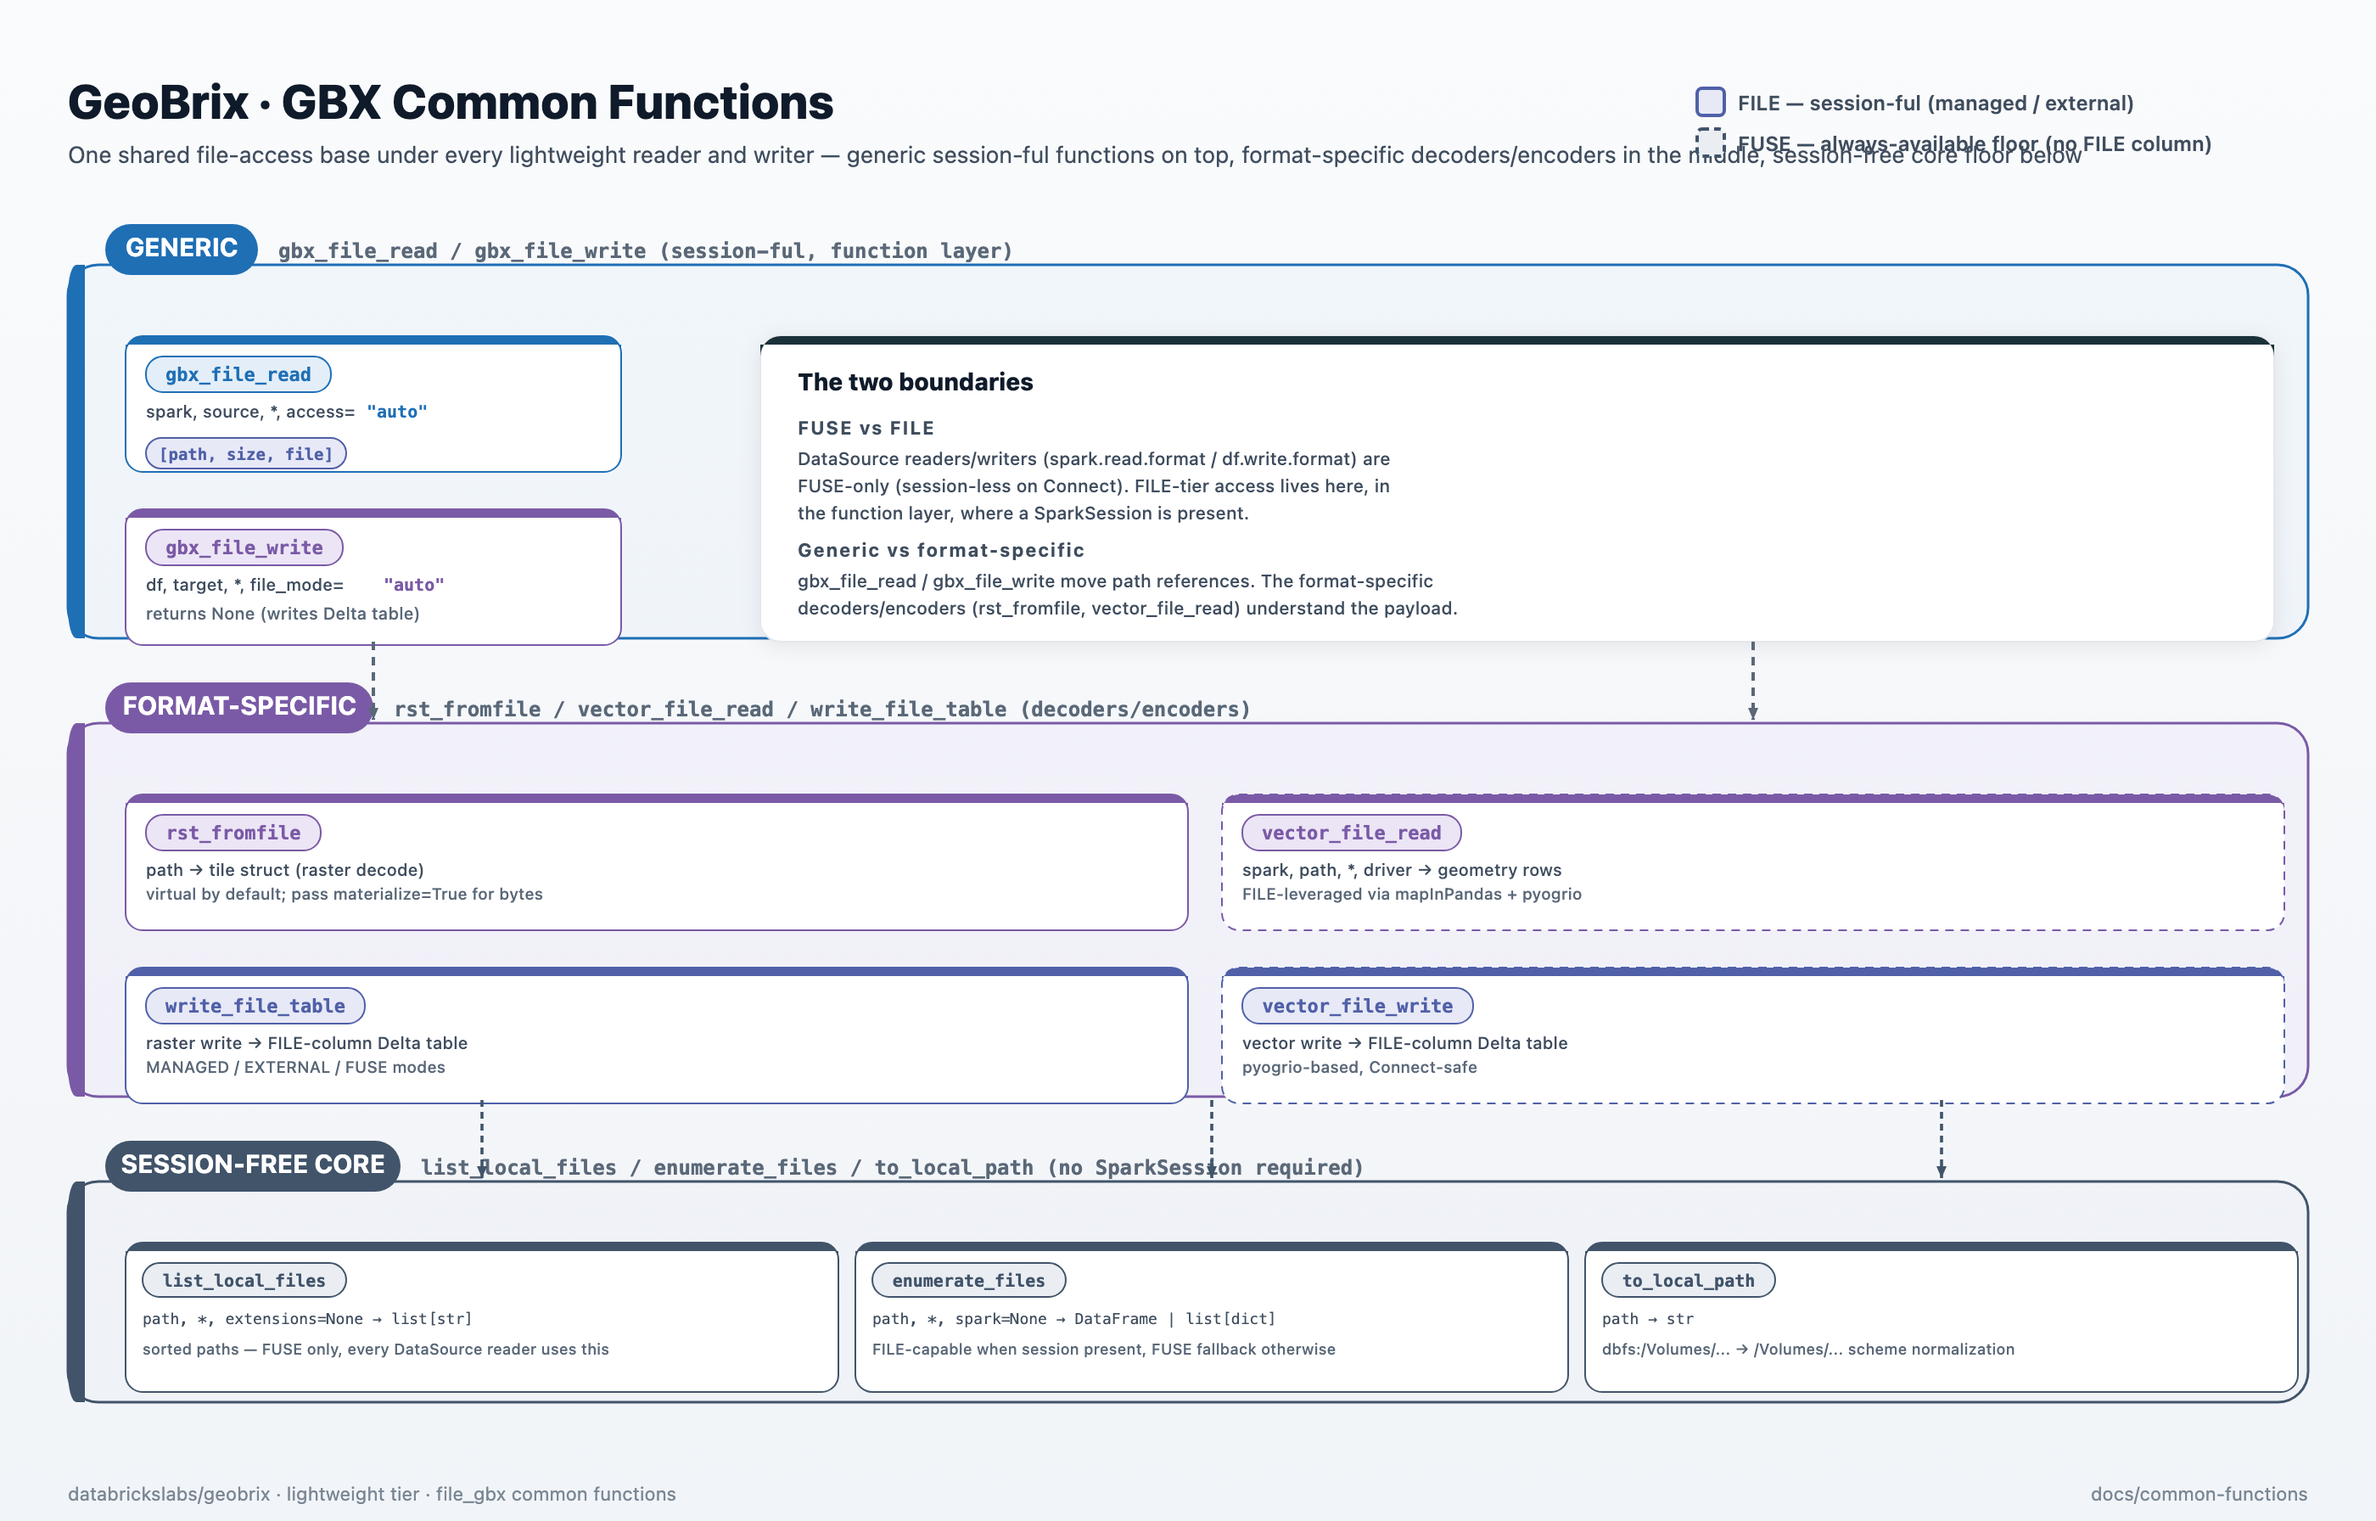
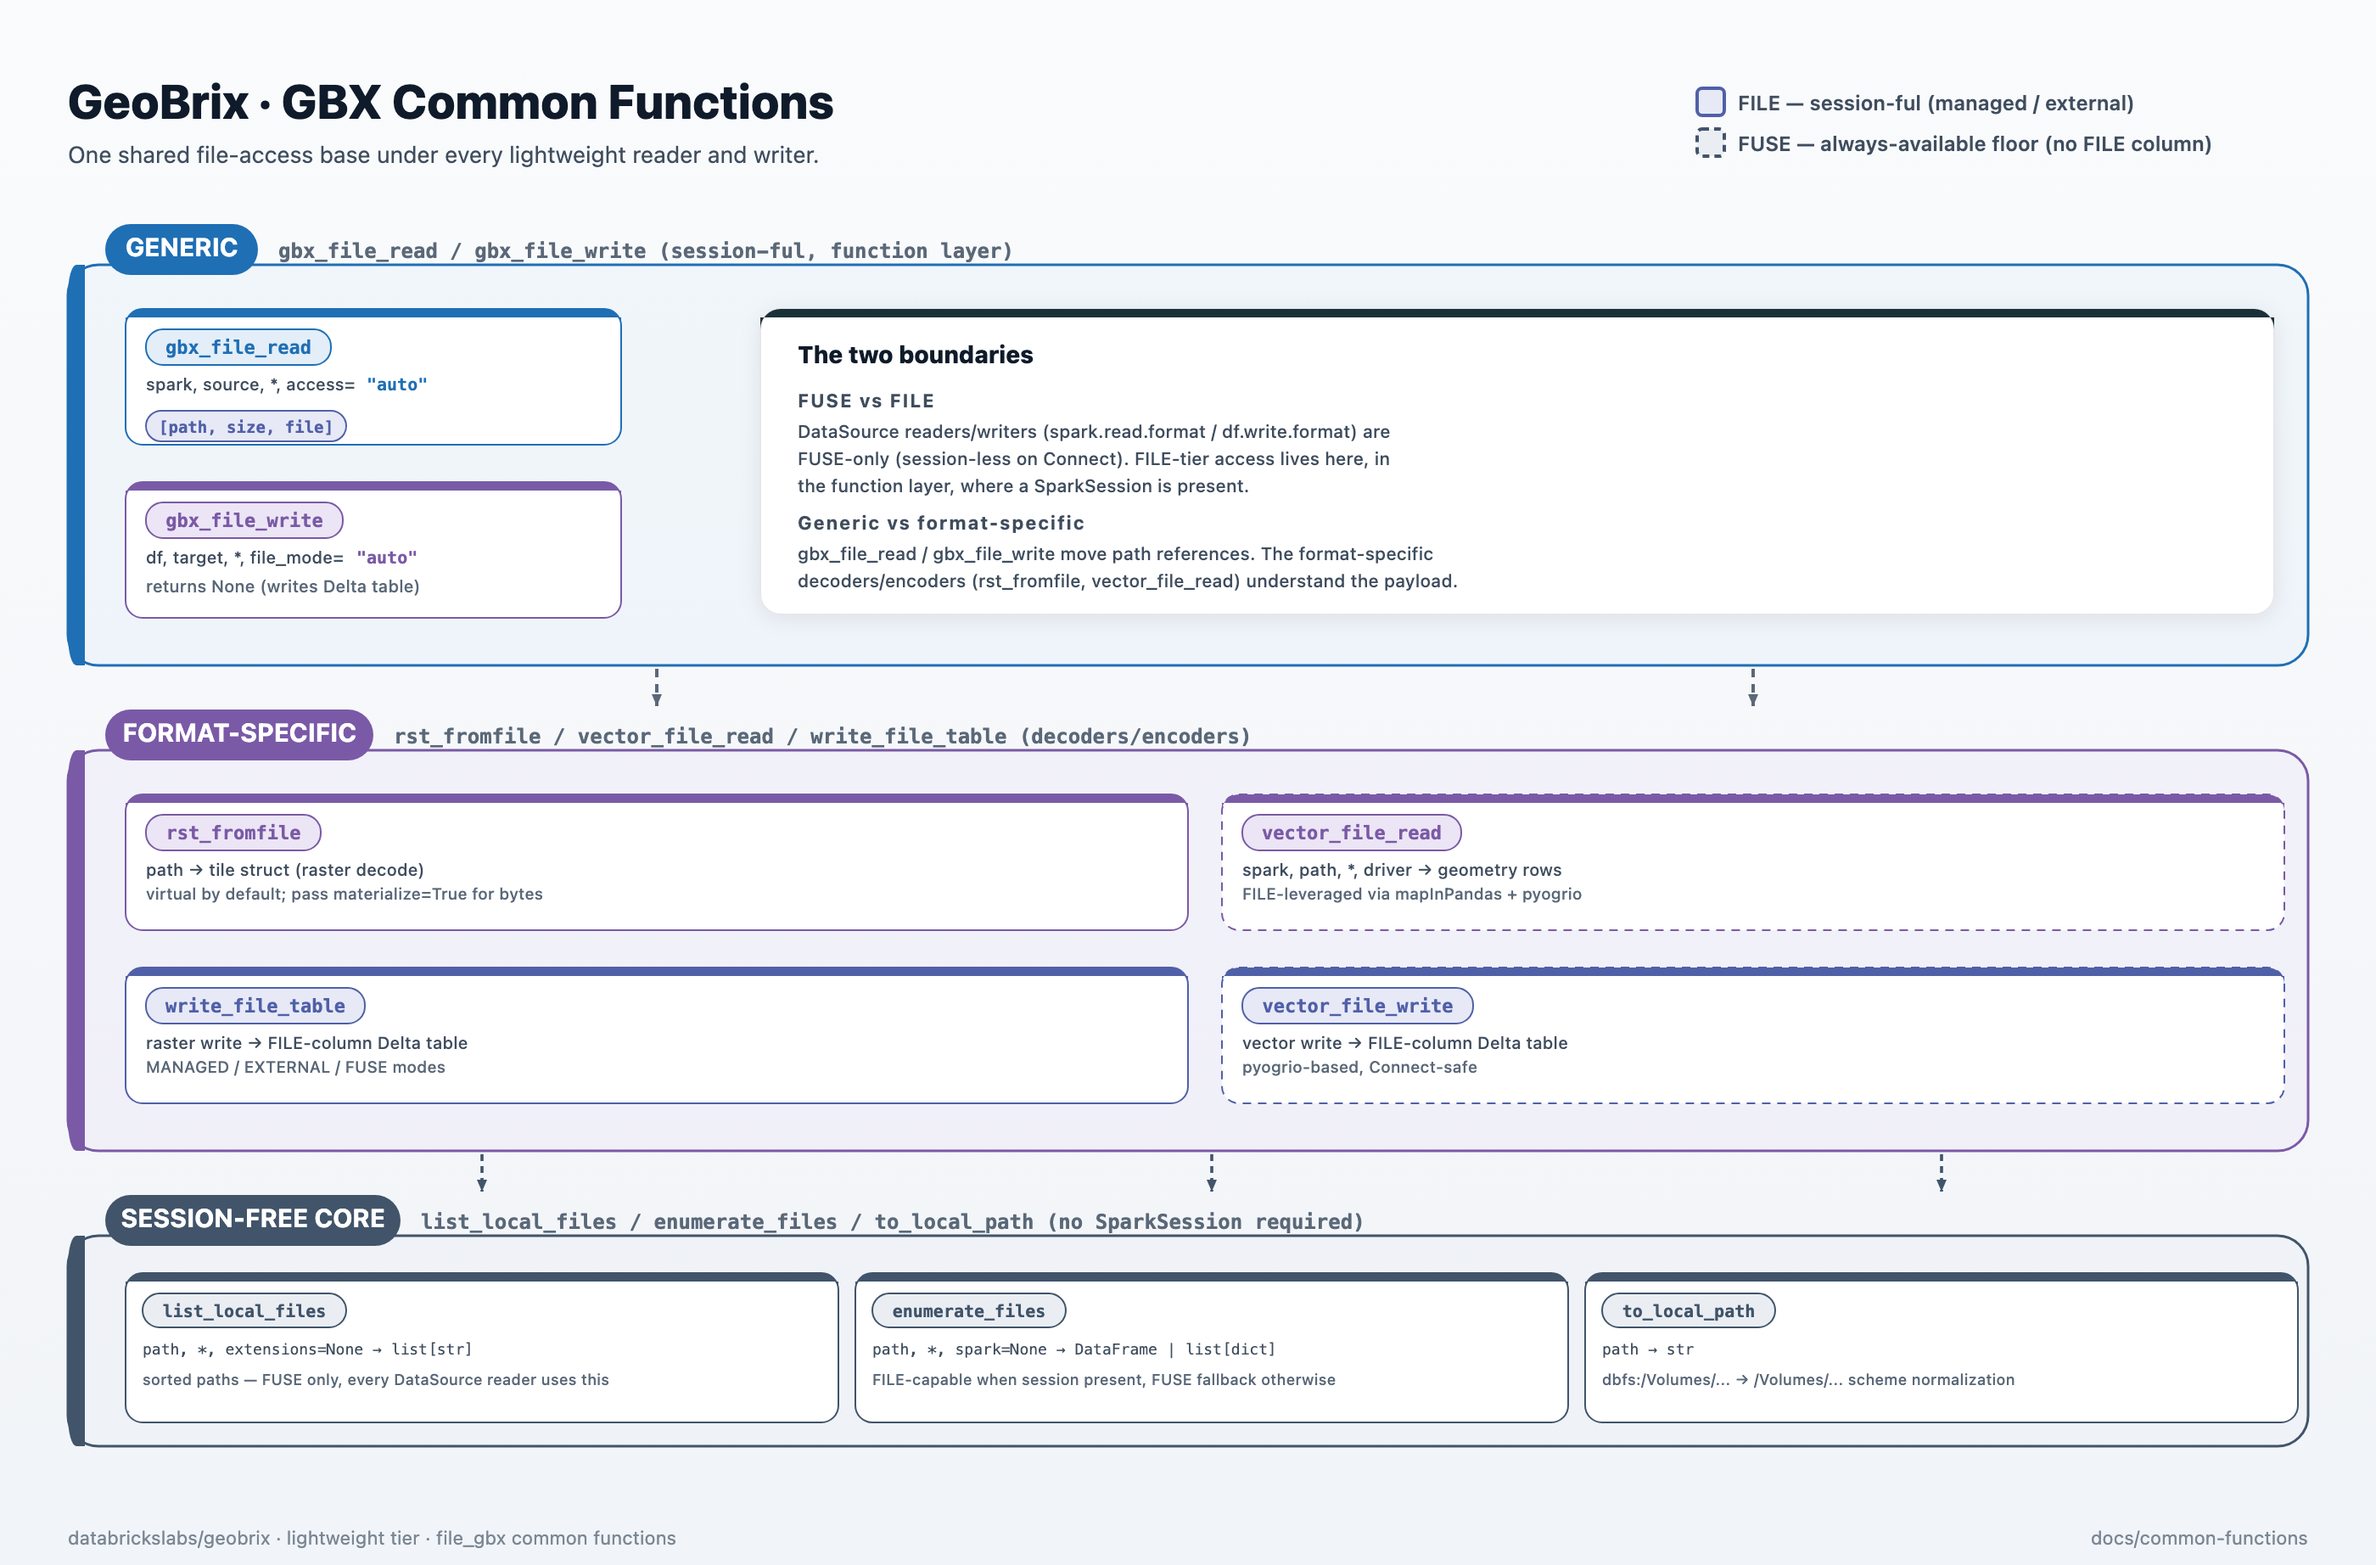
docs(diagram): fix GBX Common Functions diagram layout
- Bottom padding: taller GENERIC/FORMAT-SPECIFIC bands + content shifted
  up (smaller top offset) so the WRITE box, callout, and write-side cards
  no longer spill past the band edge.
- Arrows: end each vertical connector in the clear gap ABOVE the lower
  band's pill+descriptor row so no arrow crosses the descriptor text
  (fixes the middle box2->box3 arrow cutting 'enumerate_files'); box1->box2
  left arrow moved onto the rst_fromfile column.
- gbx_file_write: 'auto' moved next to 'file_mode='.
- Subtitle shortened so it no longer runs under the top-right FUSE legend.

Changed region(s): [[0.0311, 0.0625, 0.9632, 0.9375], [0.8079, 0.7188, 0.8389, 0.7812], [0.9321, 0.7188, 0.9632, 0.75]]

diff --git a/resources/images/generators/gbx-common-functions.py b/resources/images/generators/gbx-common-functions.py
@@ -56,9 +56,11 @@ HEADER_H = 86
 
 # Three tiers
 TIER_GAP = 20
-TIER1_H  = 220    # generic functions
-TIER2_H  = 220    # format-specific
-TIER3_H  = 130    # session-free core
+# Content is shifted up within each band (small top offset, see t{1,2,3}y) and the band height
+# gives balanced bottom padding so no card spills past the band edge.
+TIER1_H  = 236    # generic functions
+TIER2_H  = 236    # format-specific
+TIER3_H  = 124    # session-free core
 PILL_OVERHANG = 24
 
 # Stage columns
@@ -181,9 +183,7 @@ def render():
     parts.append(text(PAD, PAD + 30, "GeoBrix · GBX Common Functions",
                       size=28, weight=800, fill=C_INK))
     parts.append(text(PAD, PAD + 56,
-                      "One shared file-access base under every lightweight reader and writer — "
-                      "generic session-ful functions on top, format-specific decoders/encoders "
-                      "in the middle, session-free core floor below",
+                      "One shared file-access base under every lightweight reader and writer.",
                       size=13.5, fill=C_MUTED))
     # Legend (top-right)
     lx = CANVAS_W - PAD - 360
@@ -199,7 +199,7 @@ def render():
     # ========================= TIER 1: GENERIC FUNCTIONS =========================
     parts.append(lane_band(tier1_top, TIER1_H, ACCENT_READ, TINT_READ,
                             "GENERIC", 'gbx_file_read / gbx_file_write  (session-ful, function layer)'))
-    t1y = tier1_top + 22
+    t1y = tier1_top + 6
 
     # --- READ box ---
     bx, bw, bh = C1_X + 14, C1_W - 28, 80
@@ -225,7 +225,7 @@ def render():
                  border=ACCENT_WRITE, mono_font=True, h=21, size=11)
     parts.append(wc)
     parts.append(text(bx2 + 12, wy_box + 48, "df, target, *, file_mode=", size=10, weight=500, fill=C_MUTED))
-    parts.append(mono(bx2 + 12 + 140, wy_box + 48, '"auto"', size=10, weight=700, fill=ACCENT_WRITE))
+    parts.append(mono(bx2 + 12 + 124, wy_box + 48, '"auto"', size=10, weight=700, fill=ACCENT_WRITE))
     parts.append(text(bx2 + 12, wy_box + 65, "returns None (writes Delta table)", size=10, weight=500, fill=C_MUTED_2))
 
     # --- NO-GATING callout ---
@@ -265,7 +265,7 @@ def render():
     parts.append(lane_band(tier2_top, TIER2_H, ACCENT_WRITE, TINT_WRITE,
                             "FORMAT-SPECIFIC",
                             "rst_fromfile / vector_file_read / write_file_table  (decoders/encoders)"))
-    t2y = tier2_top + 22
+    t2y = tier2_top + 6
 
     # Raster decode
     rx_bx = C1_X + 14; rx_bw = (CANVAS_W - 2*PAD - 28) // 2 - 20; rx_bh = 80
@@ -320,7 +320,7 @@ def render():
     parts.append(lane_band(tier3_top, TIER3_H, C_FUSE, TINT_FUSE,
                             "SESSION-FREE CORE",
                             "list_local_files / enumerate_files / to_local_path  (no SparkSession required)"))
-    t3y = tier3_top + 22
+    t3y = tier3_top + 8
 
     funcs = [
         ("list_local_files",  "path, *, extensions=None  → list[str]", "sorted paths — FUSE only, every DataSource reader uses this"),
@@ -339,18 +339,21 @@ def render():
         parts.append(text(fx + 10, t3y + 80, note, size=9, weight=500, fill=C_MUTED_2))
 
     # ========================= ARROWS =========================
-    # Tier-1 generic → Tier-2 format-specific (down arrows)
+    # Each vertical connector ENDS in the clear gap ABOVE the lower band's pill+descriptor row
+    # (never crossing that row), so no arrow cuts the descriptor text at any x. Arrowheads point
+    # into each band from just above; x's sit on the target-box centres.
+    # Tier-1 generic → Tier-2 format-specific
     mid_t1  = tier1_top + TIER1_H + 2
-    mid_t2  = tier2_top - 2
-    cx_left  = C1_X + 14 + (C1_W - 28) // 2
-    cx_right = (C1_X + 14 + rx_bw + 20) + vr_bw // 2
+    mid_t2  = tier2_top - PILL_OVERHANG - 2
+    cx_left  = C1_X + 14 + rx_bw // 2                      # → rst_fromfile centre
+    cx_right = (C1_X + 14 + rx_bw + 20) + vr_bw // 2       # → vector_file_read centre
     for cx in (cx_left, cx_right):
         parts.append(arrow_line(cx, mid_t1, cx, mid_t2,
                                 marker="arrow", color=C_MUTED_2, width=2, dash="5 4"))
 
-    # Tier-2 format-specific → Tier-3 core (down arrows)
+    # Tier-2 format-specific → Tier-3 core (into the 3 core-box centres)
     mid_t2b = tier2_top + TIER2_H + 2
-    mid_t3  = tier3_top - 2
+    mid_t3  = tier3_top - PILL_OVERHANG - 2
     for i in range(3):
         fx_c = C1_X + 14 + i * (col_w + 10) + col_w // 2
         parts.append(arrow_line(fx_c, mid_t2b, fx_c, mid_t3,
